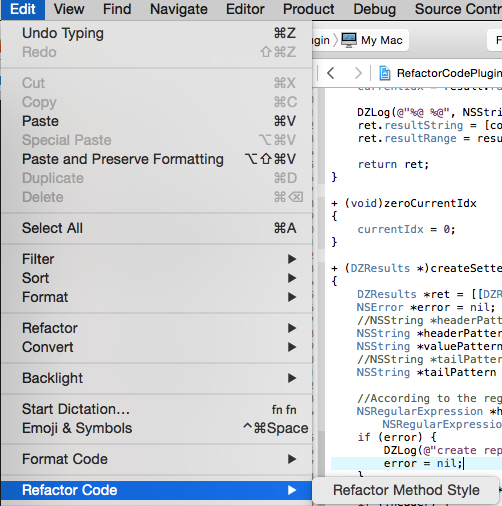
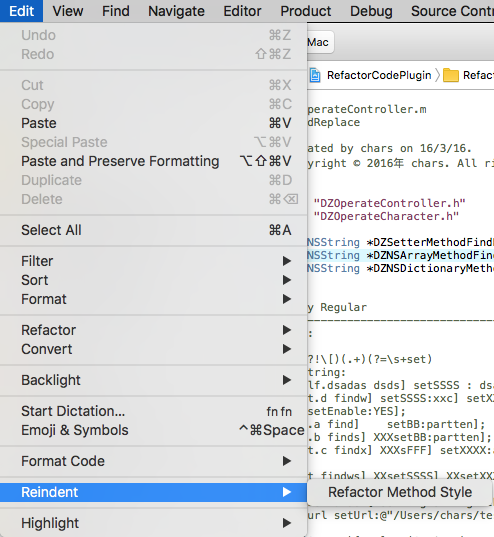
rename menu name

Changed region(s): [[0.0, 0.0, 1.0, 1.0], [0.2126, 0.5929, 0.4555, 0.6225]]

diff --git a/RefactorCodePlugin/Core/RefactorCodePlugin.m b/RefactorCodePlugin/Core/RefactorCodePlugin.m
@@ -156,16 +156,16 @@ static const char hilightStateKey;
     if (editMenuItem) {
         [[editMenuItem submenu] addItem:[NSMenuItem separatorItem]];
         
-        NSMenu *refactorCodeMenu = [[NSMenu alloc] initWithTitle:@"Refactor Code"];
+        NSMenu *reindentMenu = [[NSMenu alloc] initWithTitle:@"Reindent"];
         
         NSMenuItem *menuItem;
         menuItem = [[NSMenuItem alloc] initWithTitle:@"Refactor Method Style" action:@selector(refactorMethodStyleMenuAction) keyEquivalent:@""];
         [menuItem setTarget:self];
-        [refactorCodeMenu addItem:menuItem];
+        [reindentMenu addItem:menuItem];
         
-        NSMenuItem *refactorCodeMenuItem = [[NSMenuItem alloc] initWithTitle:@"Refactor Code" action:nil keyEquivalent:@""];
-        [refactorCodeMenuItem setSubmenu:refactorCodeMenu];
-        [[editMenuItem submenu] addItem:refactorCodeMenuItem];
+        NSMenuItem *reindentMenuItem = [[NSMenuItem alloc] initWithTitle:@"Reindent" action:nil keyEquivalent:@""];
+        [reindentMenuItem setSubmenu:reindentMenu];
+        [[editMenuItem submenu] addItem:reindentMenuItem];
     }
 }
 

diff --git a/README.md b/README.md
@@ -4,7 +4,7 @@ Refactor code style, such as setter method.
 # Install
 ## Manually
 
-Build the `Refactor Code` target in the Xcode project and the plug-in will automatically be installed in `~/Library/Application Support/Developer/Shared/Xcode/Plug-ins`. Relaunch Xcode and clicked `Edit` menu you can seeing `Refactor Code` submenu.
+Build the `Refactor Code` target in the Xcode project and the plug-in will automatically be installed in `~/Library/Application Support/Developer/Shared/Xcode/Plug-ins`. Relaunch Xcode and clicked `Edit` menu you can seeing `Reindent` submenu.
 ## Alcatraz
 
 Install [Alcatraz](http://alcatraz.io/), restart Xcode and press ⇧⌘9. You can find `Refactor Code` in the list and click the icon on the left to install.
